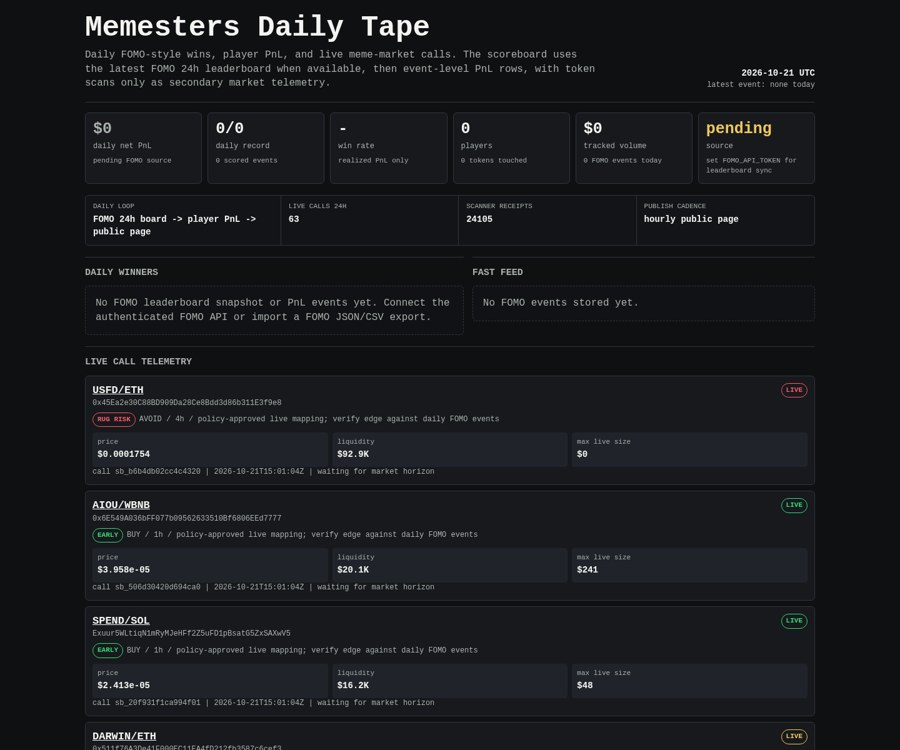
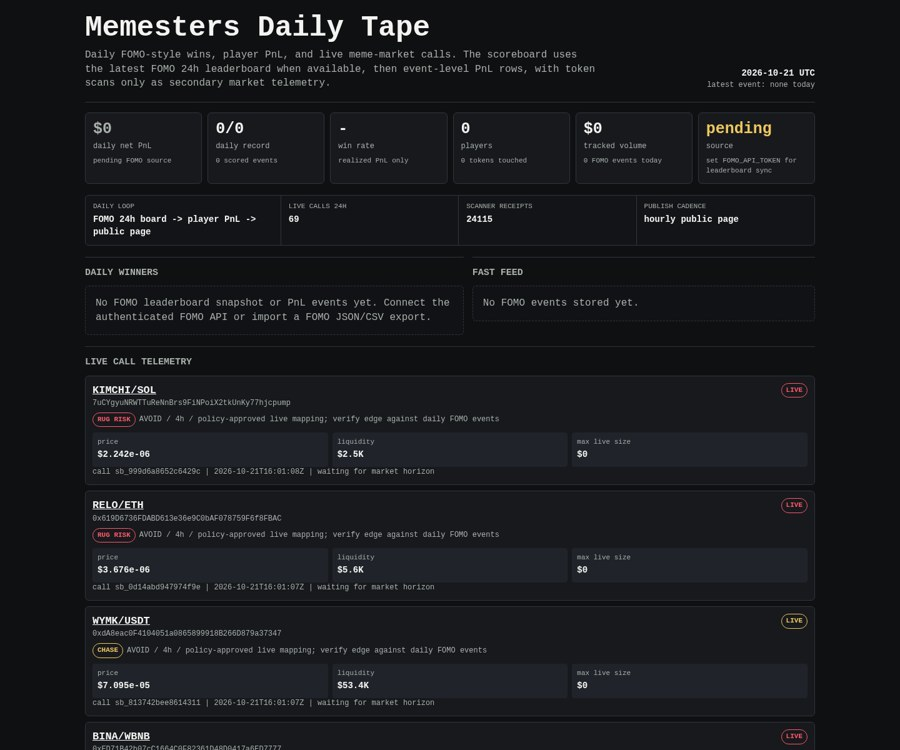
Update Memesters scoreboard

diff --git a/memesters/index.html b/memesters/index.html
@@ -149,8 +149,8 @@
 
     <div class="rail" aria-label="live operating loop">
       <div><span>daily loop</span><b>FOMO 24h board -> player PnL -> public page</b></div>
-      <div><span>live calls 24h</span><b>63</b></div>
-      <div><span>scanner receipts</span><b>24105</b></div>
+      <div><span>live calls 24h</span><b>69</b></div>
+      <div><span>scanner receipts</span><b>24115</b></div>
       <div><span>publish cadence</span><b>hourly public page</b></div>
     </div>
 
@@ -171,8 +171,8 @@
     <article class="receipt">
       <div class="receipt-head">
         <div>
-          <div class="pair"><a href="https://dexscreener.com/robinhood/0x8db4e9424db45dba23fea5af3c884c9d1ad4e55b4a084c72a45195c365c0ed5b">USFD/ETH</a></div>
-          <div class="addr">0x45Ea2e30C88BD909Da28Ce8Bdd3d86b311E3f9e8</div>
+          <div class="pair"><a href="https://dexscreener.com/solana/efnvfydbfpq9xqpxyxb4xvm5wkzg5nabzxjpwyptmxlq">KIMCHI/SOL</a></div>
+          <div class="addr">7uCYgyuNRWTTuReNnBrs9FiNPoiX2tkUnKy77hjcpump</div>
           <div class="addr policy-line">
             <span class="badge rug-risk">RUG RISK</span>
             <span>AVOID / 4h / policy-approved live mapping; verify edge against daily FOMO events</span>
@@ -181,19 +181,145 @@
         <span class="badge rug-risk">LIVE</span>
       </div>
       <div class="receipt-grid">
-        <div class="kv"><span>price</span><b>$0.0001754</b></div>
-        <div class="kv"><span>liquidity</span><b>$92.9K</b></div>
+        <div class="kv"><span>price</span><b>$2.242e-06</b></div>
+        <div class="kv"><span>liquidity</span><b>$2.5K</b></div>
         <div class="kv"><span>max live size</span><b>$0</b></div>
       </div>
-      <div class="outcomes">call sb_b6b4db02cc4c4320 | 2026-10-21T15:01:04Z | waiting for market horizon</div>
+      <div class="outcomes">call sb_999d6a8652c6429c | 2026-10-21T16:01:08Z | waiting for market horizon</div>
     </article>
     
 
     <article class="receipt">
       <div class="receipt-head">
         <div>
-          <div class="pair"><a href="https://dexscreener.com/bsc/0x1f8989ce5e13d5390aed48c9f9ee7dd979e88709">AIOU/WBNB</a></div>
-          <div class="addr">0x6E549A036bFF077b09562633510Bf6806EEd7777</div>
+          <div class="pair"><a href="https://dexscreener.com/robinhood/0xb0d4278d062407dc5e83367fe719828e101de289ee2563929476f8b26902b199">RELO/ETH</a></div>
+          <div class="addr">0x619D6736FDABD613e36e9C0bAF078759F6f8FBAC</div>
+          <div class="addr policy-line">
+            <span class="badge rug-risk">RUG RISK</span>
+            <span>AVOID / 4h / policy-approved live mapping; verify edge against daily FOMO events</span>
+          </div>
+        </div>
+        <span class="badge rug-risk">LIVE</span>
+      </div>
+      <div class="receipt-grid">
+        <div class="kv"><span>price</span><b>$3.676e-06</b></div>
+        <div class="kv"><span>liquidity</span><b>$5.6K</b></div>
+        <div class="kv"><span>max live size</span><b>$0</b></div>
+      </div>
+      <div class="outcomes">call sb_0d14abd947974f9e | 2026-10-21T16:01:07Z | waiting for market horizon</div>
+    </article>
+    
+
+    <article class="receipt">
+      <div class="receipt-head">
+        <div>
+          <div class="pair"><a href="https://dexscreener.com/bsc/0x5c14c118f488092ea575ec0cb5faa70a16dcd71f">WYMK/USDT</a></div>
+          <div class="addr">0xdA8eac0F4104051a0865899918B266D879a37347</div>
+          <div class="addr policy-line">
+            <span class="badge chase">CHASE</span>
+            <span>AVOID / 4h / policy-approved live mapping; verify edge against daily FOMO events</span>
+          </div>
+        </div>
+        <span class="badge chase">LIVE</span>
+      </div>
+      <div class="receipt-grid">
+        <div class="kv"><span>price</span><b>$7.095e-05</b></div>
+        <div class="kv"><span>liquidity</span><b>$53.4K</b></div>
+        <div class="kv"><span>max live size</span><b>$0</b></div>
+      </div>
+      <div class="outcomes">call sb_813742bee8614311 | 2026-10-21T16:01:07Z | waiting for market horizon</div>
+    </article>
+    
+
+    <article class="receipt">
+      <div class="receipt-head">
+        <div>
+          <div class="pair"><a href="https://dexscreener.com/bsc/0xe19a77b2e102e4da337927b8465739bdad4f77d0">BINA/WBNB</a></div>
+          <div class="addr">0xED71B42b07cC1664C0F82361D48D0417a6ED7777</div>
+          <div class="addr policy-line">
+            <span class="badge rug-risk">RUG RISK</span>
+            <span>AVOID / 4h / policy-approved live mapping; verify edge against daily FOMO events</span>
+          </div>
+        </div>
+        <span class="badge rug-risk">LIVE</span>
+      </div>
+      <div class="receipt-grid">
+        <div class="kv"><span>price</span><b>$2.996e-05</b></div>
+        <div class="kv"><span>liquidity</span><b>$17.2K</b></div>
+        <div class="kv"><span>max live size</span><b>$0</b></div>
+      </div>
+      <div class="outcomes">call sb_4d485ee933bc44fe | 2026-10-21T16:01:07Z | waiting for market horizon</div>
+    </article>
+    
+
+    <article class="receipt">
+      <div class="receipt-head">
+        <div>
+          <div class="pair"><a href="https://dexscreener.com/solana/dlgcrxeg98f7c9h1gjfitixw9sfbnxg9ies26gtosprn">KIMCHIWHEEL/SOL</a></div>
+          <div class="addr">DS2yfdws8De9UthDdGJiQvuEiFL349nnQndEmbb3pump</div>
+          <div class="addr policy-line">
+            <span class="badge rug-risk">RUG RISK</span>
+            <span>AVOID / 4h / policy-approved live mapping; verify edge against daily FOMO events</span>
+          </div>
+        </div>
+        <span class="badge rug-risk">LIVE</span>
+      </div>
+      <div class="receipt-grid">
+        <div class="kv"><span>price</span><b>$2.623e-06</b></div>
+        <div class="kv"><span>liquidity</span><b>$2.6K</b></div>
+        <div class="kv"><span>max live size</span><b>$0</b></div>
+      </div>
+      <div class="outcomes">call sb_f90b0befd6e0485e | 2026-10-21T16:01:07Z | waiting for market horizon</div>
+    </article>
+    
+
+    <article class="receipt">
+      <div class="receipt-head">
+        <div>
+          <div class="pair"><a href="https://dexscreener.com/robinhood/0x456bee7a4496083f053af394c09ff70eaacb2c1fc35cb429c984740ae85c2a0b">IBM/ETH</a></div>
+          <div class="addr">0x32a70b126e1C4ca1401B1Cd3A54d29190A3DB718</div>
+          <div class="addr policy-line">
+            <span class="badge chase">CHASE</span>
+            <span>AVOID / 4h / policy-approved live mapping; verify edge against daily FOMO events</span>
+          </div>
+        </div>
+        <span class="badge chase">LIVE</span>
+      </div>
+      <div class="receipt-grid">
+        <div class="kv"><span>price</span><b>$0.0001862</b></div>
+        <div class="kv"><span>liquidity</span><b>$62.7K</b></div>
+        <div class="kv"><span>max live size</span><b>$0</b></div>
+      </div>
+      <div class="outcomes">call sb_426a9895496c4086 | 2026-10-21T16:01:07Z | waiting for market horizon</div>
+    </article>
+    
+
+    <article class="receipt">
+      <div class="receipt-head">
+        <div>
+          <div class="pair"><a href="https://dexscreener.com/solana/6tdtw55marzgwk3gadudtk5qfqqu2oaznr9fhumhnhue">KIMCHINU/SOL</a></div>
+          <div class="addr">EBzm1AYQSBiJqpJm77nXWjPedxGiyy5N6f75q7o4pump</div>
+          <div class="addr policy-line">
+            <span class="badge chase">CHASE</span>
+            <span>AVOID / 4h / policy-approved live mapping; verify edge against daily FOMO events</span>
+          </div>
+        </div>
+        <span class="badge chase">LIVE</span>
+      </div>
+      <div class="receipt-grid">
+        <div class="kv"><span>price</span><b>$0.0005612</b></div>
+        <div class="kv"><span>liquidity</span><b>$65.1K</b></div>
+        <div class="kv"><span>max live size</span><b>$0</b></div>
+      </div>
+      <div class="outcomes">call sb_a98f24b4952744fb | 2026-10-21T16:01:07Z | waiting for market horizon</div>
+    </article>
+    
+
+    <article class="receipt">
+      <div class="receipt-head">
+        <div>
+          <div class="pair"><a href="https://dexscreener.com/robinhood/0x467154dcdcf38f448e4742b81464a9b9e1d2b3a6b538b92f66f77d3436249825">SEVREN/ETH</a></div>
+          <div class="addr">0x6020A3992FD7dbb8a1622D9c4e0f7497Bb819dB0</div>
           <div class="addr policy-line">
             <span class="badge early">EARLY</span>
             <span>BUY / 1h / policy-approved live mapping; verify edge against daily FOMO events</span>
@@ -202,19 +328,19 @@
         <span class="badge early">LIVE</span>
       </div>
       <div class="receipt-grid">
-        <div class="kv"><span>price</span><b>$3.958e-05</b></div>
-        <div class="kv"><span>liquidity</span><b>$20.1K</b></div>
-        <div class="kv"><span>max live size</span><b>$241</b></div>
+        <div class="kv"><span>price</span><b>$6.932e-05</b></div>
+        <div class="kv"><span>liquidity</span><b>$24.4K</b></div>
+        <div class="kv"><span>max live size</span><b>$293</b></div>
       </div>
-      <div class="outcomes">call sb_506d30420d694ca0 | 2026-10-21T15:01:04Z | waiting for market horizon</div>
+      <div class="outcomes">call sb_a1397280e56441be | 2026-10-21T16:01:07Z | waiting for market horizon</div>
     </article>
     
 
     <article class="receipt">
       <div class="receipt-head">
         <div>
-          <div class="pair"><a href="https://dexscreener.com/solana/9dqbhgdfhokkc3wwc1dwcwwjxbmu4bdmqpo7dj3am6kw">SPEND/SOL</a></div>
-          <div class="addr">Exuur5WLtiqN1mRyMJeHFf2Z5uFD1pBsatG5ZxSAXwV5</div>
+          <div class="pair"><a href="https://dexscreener.com/ethereum/0xc92e63d4946373df220abdf34f134ab0a97854eba7982b25cd3eee1f12b2c0c7">XFRAMES/ETH</a></div>
+          <div class="addr">0x560686D9aD4364FFD38AA54186D9a41E3cdc8dfF</div>
           <div class="addr policy-line">
             <span class="badge early">EARLY</span>
             <span>BUY / 1h / policy-approved live mapping; verify edge against daily FOMO events</span>
@@ -223,158 +349,32 @@
         <span class="badge early">LIVE</span>
       </div>
       <div class="receipt-grid">
-        <div class="kv"><span>price</span><b>$2.413e-05</b></div>
-        <div class="kv"><span>liquidity</span><b>$16.2K</b></div>
-        <div class="kv"><span>max live size</span><b>$48</b></div>
-      </div>
-      <div class="outcomes">call sb_20f931f1ca994f01 | 2026-10-21T15:01:04Z | waiting for market horizon</div>
-    </article>
-    
-
-    <article class="receipt">
-      <div class="receipt-head">
-        <div>
-          <div class="pair"><a href="https://dexscreener.com/robinhood/0x0bf15da7e9f0fb53ba519df8c0c6e4566df7cd78890ea34de3f7f49e38e47265">DARWIN/ETH</a></div>
-          <div class="addr">0x511f76A3De41F000EC11EA4fD212fb3587c6cef3</div>
-          <div class="addr policy-line">
-            <span class="badge chase">CHASE</span>
-            <span>AVOID / 4h / policy-approved live mapping; verify edge against daily FOMO events</span>
-          </div>
-        </div>
-        <span class="badge chase">LIVE</span>
-      </div>
-      <div class="receipt-grid">
-        <div class="kv"><span>price</span><b>$0.0003995</b></div>
-        <div class="kv"><span>liquidity</span><b>$58.4K</b></div>
-        <div class="kv"><span>max live size</span><b>$0</b></div>
-      </div>
-      <div class="outcomes">call sb_d4c31f59623d4b0a | 2026-10-21T15:01:04Z | waiting for market horizon</div>
-    </article>
-    
-
-    <article class="receipt">
-      <div class="receipt-head">
-        <div>
-          <div class="pair"><a href="https://dexscreener.com/solana/hee3eya4hq7x8uuzg9vqgpto6riiod5rsykhenneqz5c">Kemchi/SOL</a></div>
-          <div class="addr">5C69sv7RdXsfqeLkyNKLxUD2rE4HDxR9vJMNTvw5pump</div>
-          <div class="addr policy-line">
-            <span class="badge early">EARLY</span>
-            <span>BUY / 1h / policy-approved live mapping; verify edge against daily FOMO events</span>
-          </div>
-        </div>
-        <span class="badge early">LIVE</span>
-      </div>
-      <div class="receipt-grid">
-        <div class="kv"><span>price</span><b>$4.414e-05</b></div>
-        <div class="kv"><span>liquidity</span><b>$17.0K</b></div>
-        <div class="kv"><span>max live size</span><b>$205</b></div>
-      </div>
-      <div class="outcomes">call sb_312bce12a4b54905 | 2026-10-21T15:01:04Z | waiting for market horizon</div>
-    </article>
-    
-
-    <article class="receipt">
-      <div class="receipt-head">
-        <div>
-          <div class="pair"><a href="https://dexscreener.com/solana/3b5egpgpghvzk9w4h8jgyweoepil6qwhtueudg2kcmpq">HUMANOID/SOL</a></div>
-          <div class="addr">DR3uVReJt6qGVdQ4WbWYhz246TS845XnUQshhDdKpump</div>
-          <div class="addr policy-line">
-            <span class="badge chase">CHASE</span>
-            <span>AVOID / 4h / policy-approved live mapping; verify edge against daily FOMO events</span>
-          </div>
-        </div>
-        <span class="badge chase">LIVE</span>
-      </div>
-      <div class="receipt-grid">
-        <div class="kv"><span>price</span><b>$0.0001988</b></div>
-        <div class="kv"><span>liquidity</span><b>$37.4K</b></div>
-        <div class="kv"><span>max live size</span><b>$0</b></div>
-      </div>
-      <div class="outcomes">call sb_acb54dbcf1204ec6 | 2026-10-21T14:30:52Z | <span class="negative">15m +66.9% / -$67 if followed</span></div>
-    </article>
-    
-
-    <article class="receipt">
-      <div class="receipt-head">
-        <div>
-          <div class="pair"><a href="https://dexscreener.com/solana/afpgdkhfswvwkkcp6a3knwsbl4ltybpg5zgsxa2bzuqt">wifchi/SOL</a></div>
-          <div class="addr">8uWftzVoVBqyPJj6Xq9kRUtnz54W5GP4pd4smwZHpump</div>
-          <div class="addr policy-line">
-            <span class="badge chase">CHASE</span>
-            <span>AVOID / 4h / policy-approved live mapping; verify edge against daily FOMO events</span>
-          </div>
-        </div>
-        <span class="badge chase">LIVE</span>
-      </div>
-      <div class="receipt-grid">
-        <div class="kv"><span>price</span><b>$0.0002712</b></div>
-        <div class="kv"><span>liquidity</span><b>$44.7K</b></div>
-        <div class="kv"><span>max live size</span><b>$0</b></div>
-      </div>
-      <div class="outcomes">call sb_1c24b1e9508d44d1 | 2026-10-21T14:30:52Z | <span class="positive">15m -48.6% / +$49 if followed</span></div>
-    </article>
-    
-
-    <article class="receipt">
-      <div class="receipt-head">
-        <div>
-          <div class="pair"><a href="https://dexscreener.com/bsc/0x5a606e1533fb11870f3b6c2f98a7edda699b94bf">SI/WBNB</a></div>
-          <div class="addr">0x725CCC7B5cEaCb0324B64CCb7DA3EcA2cd3a6666</div>
-          <div class="addr policy-line">
-            <span class="badge chase">CHASE</span>
-            <span>AVOID / 4h / policy-approved live mapping; verify edge against daily FOMO events</span>
-          </div>
-        </div>
-        <span class="badge chase">LIVE</span>
-      </div>
-      <div class="receipt-grid">
-        <div class="kv"><span>price</span><b>$5.964e-10</b></div>
-        <div class="kv"><span>liquidity</span><b>$68.9K</b></div>
-        <div class="kv"><span>max live size</span><b>$0</b></div>
-      </div>
-      <div class="outcomes">call sb_ef2e87e048894e92 | 2026-10-21T13:45:38Z | <span class="positive">15m -6.3% / +$6 if followed</span> | <span class="negative">1h +1.2% / -$1 if followed</span></div>
-    </article>
-    
-
-    <article class="receipt">
-      <div class="receipt-head">
-        <div>
-          <div class="pair"><a href="https://dexscreener.com/robinhood/0x68ed34cdd2cc389837133459e173ed849a47898b1f6d39fe5e376ffeab6823f7">MINDOIL/ORBIO</a></div>
-          <div class="addr">0x4fd0b459746934B1a07C3a4AD7c75bc4CCDF6B69</div>
-          <div class="addr policy-line">
-            <span class="badge chase">CHASE</span>
-            <span>AVOID / 4h / policy-approved live mapping; verify edge against daily FOMO events</span>
-          </div>
-        </div>
-        <span class="badge chase">LIVE</span>
-      </div>
-      <div class="receipt-grid">
-        <div class="kv"><span>price</span><b>$1.892e-05</b></div>
-        <div class="kv"><span>liquidity</span><b>$12.0K</b></div>
-        <div class="kv"><span>max live size</span><b>$0</b></div>
-      </div>
-      <div class="outcomes">call sb_fda4a6dca5114277 | 2026-10-21T13:30:47Z | <span class="positive">15m -29.7% / +$30 if followed</span> | <span class="positive">1h -35.6% / +$36 if followed</span></div>
-    </article>
-    
-
-    <article class="receipt">
-      <div class="receipt-head">
-        <div>
-          <div class="pair"><a href="https://dexscreener.com/robinhood/0x8988dbd80c9d74a2583a307a154ec4e1152da2e3f40871ce770fd5e761e90b22">TICKR/ETH</a></div>
-          <div class="addr">0x28B878B5Ef3eD55dcA52a9575dEEFa678365d07A</div>
-          <div class="addr policy-line">
-            <span class="badge early">EARLY</span>
-            <span>BUY / 1h / policy-approved live mapping; verify edge against daily FOMO events</span>
-          </div>
-        </div>
-        <span class="badge early">LIVE</span>
-      </div>
-      <div class="receipt-grid">
-        <div class="kv"><span>price</span><b>$1.016e-05</b></div>
-        <div class="kv"><span>liquidity</span><b>$10.1K</b></div>
+        <div class="kv"><span>price</span><b>$1.496e-05</b></div>
+        <div class="kv"><span>liquidity</span><b>$14.6K</b></div>
         <div class="kv"><span>max live size</span><b>$25</b></div>
       </div>
-      <div class="outcomes">call sb_0ab72a8098f442a8 | 2026-10-21T13:30:47Z | <span class="positive">15m +52.6% / +$53 if followed</span> | <span class="positive">1h +62.8% / +$63 if followed</span></div>
+      <div class="outcomes">call sb_a9feb98771a34ffc | 2026-10-21T15:15:46Z | <span class="positive">15m +33.2% / +$33 if followed</span></div>
+    </article>
+    
+
+    <article class="receipt">
+      <div class="receipt-head">
+        <div>
+          <div class="pair"><a href="https://dexscreener.com/solana/efnvfydbfpq9xqpxyxb4xvm5wkzg5nabzxjpwyptmxlq">KIMCHI/SOL</a></div>
+          <div class="addr">7uCYgyuNRWTTuReNnBrs9FiNPoiX2tkUnKy77hjcpump</div>
+          <div class="addr policy-line">
+            <span class="badge chase">CHASE</span>
+            <span>AVOID / 4h / policy-approved live mapping; verify edge against daily FOMO events</span>
+          </div>
+        </div>
+        <span class="badge chase">LIVE</span>
+      </div>
+      <div class="receipt-grid">
+        <div class="kv"><span>price</span><b>$0.0002034</b></div>
+        <div class="kv"><span>liquidity</span><b>$39.1K</b></div>
+        <div class="kv"><span>max live size</span><b>$0</b></div>
+      </div>
+      <div class="outcomes">call sb_434b06d571044ab1 | 2026-10-21T15:15:46Z | <span class="positive">15m -98.9% / +$99 if followed</span></div>
     </article>
     
     </section>
